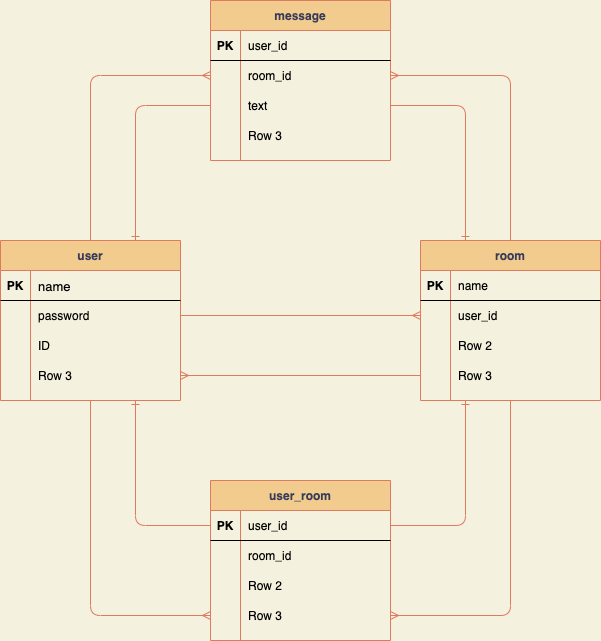
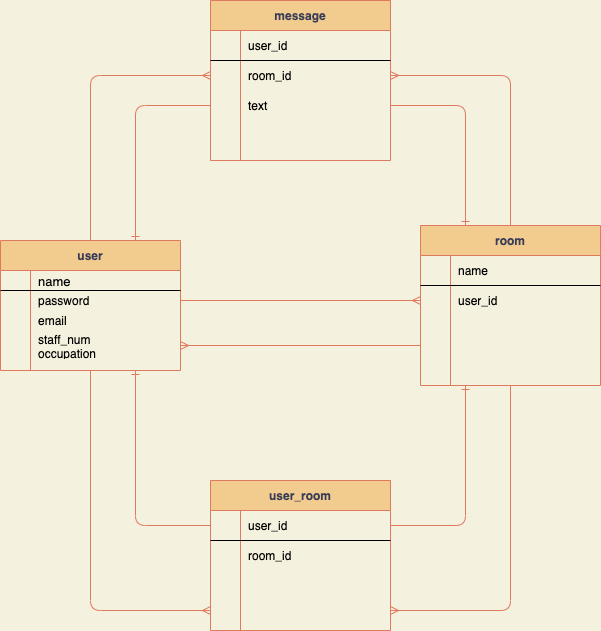
ER図修正

diff --git a/README.md b/README.md
@@ -99,7 +99,7 @@ VSCode
 
 # DB設計
 ## ER図
-[medeco](https://user-images.githubusercontent.com/77311098/109117309-2a5c9b80-7785-11eb-9d40-8bfc8ff7e16f.png)
+[medeco](https://user-images.githubusercontent.com/77311098/110264786-71585580-7ffd-11eb-966b-277d6deb0bae.png)
 
 ## userテーブル
 | Column     | Type       | Options     |
